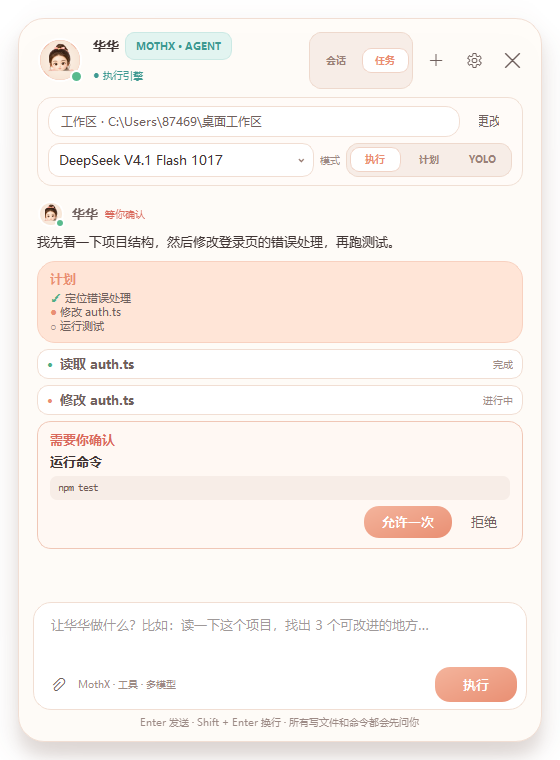
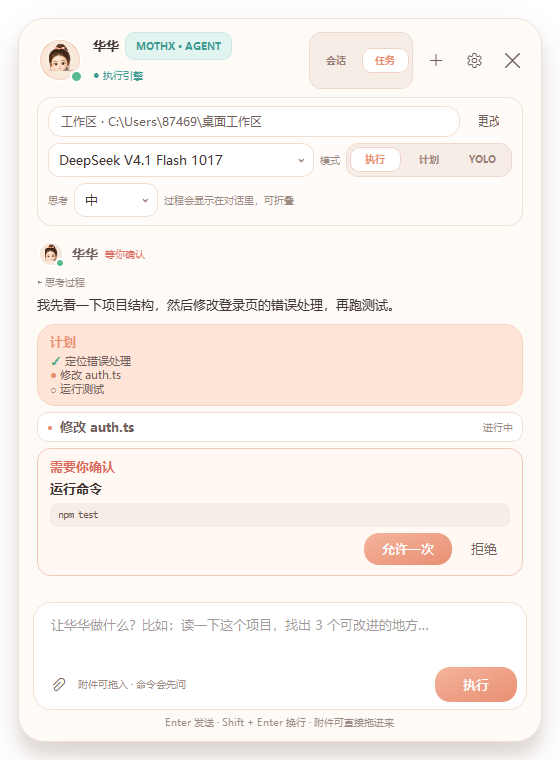
Show MothX reasoning and add thinking level control

diff --git a/huahua/agent_window.py b/huahua/agent_window.py
@@ -279,6 +279,8 @@ class AgentRunView(QFrame):
         super().__init__(parent)
         self.character = theme.character_key(character)
         self._raw = ""
+        self._thought_raw = ""
+        self._thought_open = False
         self._streaming = True
         self._tools: dict[str, ToolRow] = {}
         self._plan: PlanCard | None = None
@@ -301,6 +303,31 @@ class AgentRunView(QFrame):
         head.addWidget(self.status)
         head.addStretch(1)
         root.addLayout(head)
+
+        self.thought_btn = QPushButton("▸ 思考过程")
+        self.thought_btn.setObjectName("ThoughtToggle")
+        self.thought_btn.setCursor(Qt.CursorShape.PointingHandCursor)
+        self.thought_btn.clicked.connect(self.toggle_thought)
+        self.thought_btn.hide()
+        root.addWidget(self.thought_btn)
+        self.thoughtb = NoWheelTextBrowser()
+        self.thoughtb.setFrameShape(QFrame.Shape.NoFrame)
+        self.thoughtb.setVerticalScrollBarPolicy(Qt.ScrollBarPolicy.ScrollBarAsNeeded)
+        self.thoughtb.setHorizontalScrollBarPolicy(Qt.ScrollBarPolicy.ScrollBarAlwaysOff)
+        self.thoughtb.setStyleSheet(
+            "QTextBrowser{background:#FBF3ED;border:1px solid #F0DFD4;"
+            "border-radius:10px;padding:7px;color:#826C62;}"
+        )
+        self.thoughtb.setFixedWidth(466)
+        self.thoughtb.setFont(font(9))
+        self.thoughtb.document().setDocumentMargin(0)
+        self.thoughtb.setTextInteractionFlags(
+            Qt.TextInteractionFlag.TextSelectableByMouse
+            | Qt.TextInteractionFlag.LinksAccessibleByMouse
+        )
+        self.thoughtb.hide()
+        root.addWidget(self.thoughtb)
+
         self.textb = NoWheelTextBrowser()
         self.textb.setFrameShape(QFrame.Shape.NoFrame)
         self.textb.setVerticalScrollBarPolicy(Qt.ScrollBarPolicy.ScrollBarAlwaysOff)
@@ -327,6 +354,41 @@ class AgentRunView(QFrame):
         self.status.setText(text)
         self.status.setStyleSheet(f"color:{color};font-size:10px;")
 
+    def append_thought(self, text: str):
+        if not text:
+            return
+        self._thought_raw += text
+        # Open on the first reasoning delta so the process is visible by
+        # default; the user can collapse it with one click.
+        if not self._thought_open:
+            self._thought_open = True
+            self.thoughtb.show()
+        self.thought_btn.show()
+        self.thought_btn.setText("▾ 思考中…")
+        self._render_thought()
+        if self._streaming:
+            bar = self.thoughtb.verticalScrollBar()
+            QTimer.singleShot(0, lambda: bar.setValue(bar.maximum()))
+
+    def _render_thought(self):
+        safe = html.escape(self._thought_raw).replace("\n", "<br>")
+        self.thoughtb.setHtml(
+            f"<div style='color:#826C62;font-size:11px;line-height:1.55'>{safe}</div>"
+        )
+        doc = self.thoughtb.document()
+        doc.setTextWidth(450)
+        h = max(42, int(doc.size().height() + 16))
+        self.thoughtb.setFixedHeight(min(h, 260))
+
+    def toggle_thought(self):
+        self._thought_open = not self._thought_open
+        self.thoughtb.setVisible(self._thought_open)
+        if self._streaming:
+            self.thought_btn.setText("▾ 思考中…" if self._thought_open else "▸ 思考中…")
+        else:
+            self.thought_btn.setText("▾ 思考过程" if self._thought_open else "▸ 思考过程")
+        QTimer.singleShot(0, self._resize)
+
     def append_text(self, text: str):
         self._raw += text
         self.textb.show()
@@ -337,6 +399,8 @@ class AgentRunView(QFrame):
         self._streaming = False
         if text is not None:
             self._raw = text
+        if self._thought_raw:
+            self.thought_btn.setText("▾ 思考过程" if self._thought_open else "▸ 思考过程")
         if self._raw:
             self.textb.setHtml(md_to_html(self._raw))
             self._resize()
@@ -522,6 +586,25 @@ class AgentWindow(QWidget):
         self._last_mode = "agent"
         row.addWidget(self.mode_switch)
         cl.addLayout(row)
+        think_row = QHBoxLayout()
+        think_row.setSpacing(6)
+        think_label = QLabel("思考")
+        think_label.setObjectName("Tiny")
+        think_row.addWidget(think_label)
+        self.thinking_combo = QComboBox()
+        self.thinking_combo.addItem("关闭", "off")
+        self.thinking_combo.addItem("低", "low")
+        self.thinking_combo.addItem("中", "medium")
+        self.thinking_combo.addItem("高", "high")
+        self.thinking_combo.setFixedWidth(84)
+        self.thinking_combo.setToolTip("MothX 思考等级；中/高会显示推理过程，也会更慢")
+        self.thinking_combo.currentIndexChanged.connect(self._thinking_changed)
+        think_row.addWidget(self.thinking_combo)
+        think_hint = QLabel("过程会显示在对话里，可折叠")
+        think_hint.setObjectName("Tiny")
+        think_row.addWidget(think_hint)
+        think_row.addStretch(1)
+        cl.addLayout(think_row)
         ol.addWidget(self.ctx_card)
         root.addWidget(ctx_outer)
 
@@ -676,6 +759,11 @@ class AgentWindow(QWidget):
         mode = str(self.config.get("mothx.mode", "agent") or "agent")
         self.mode_switch.set_active(mode)
         self._last_mode = mode
+        thinking = str(self.config.get("mothx.thinking", "medium") or "medium")
+        self.thinking_combo.blockSignals(True)
+        idx = self.thinking_combo.findData(thinking)
+        self.thinking_combo.setCurrentIndex(max(0, idx))
+        self.thinking_combo.blockSignals(False)
         self._refresh_workspace()
 
     def _refresh_workspace(self):
@@ -713,6 +801,11 @@ class AgentWindow(QWidget):
         model = self.model_combo.currentData()
         if model:
             self.controller.set_model(str(model))
+
+    def _thinking_changed(self, _idx: int):
+        level = str(self.thinking_combo.currentData() or "medium")
+        self.controller.set_thinking(level)
+        self.show_toast(f"思考等级：{self.thinking_combo.currentText()}")
 
     def _mode_changed(self, mode: str):
         if mode == "yolo" and self._last_mode != "yolo":
@@ -960,9 +1053,12 @@ class AgentWindow(QWidget):
             self._run.append_text(text)
             self._scroll_bottom()
 
-    def _on_thought(self, _text: str):
+    def _on_thought(self, text: str):
         if self._run and not self._finalized:
+            self._run.append_thought(text)
             self._run.set_status("思考中…", MUTED)
+            self.pet_state.emit("thinking")
+            self._scroll_bottom()
 
     def _on_tool(self, info: dict[str, Any]):
         if self._run:

diff --git a/huahua/mothx/controller.py b/huahua/mothx/controller.py
@@ -53,6 +53,7 @@ class AgentController(QObject):
         self.config_options: list[dict[str, Any]] = []
         self.selected_model = str(config.get("mothx.model", "") or "")
         self.selected_mode = str(config.get("mothx.mode", "agent") or "agent")
+        self.selected_thinking = str(config.get("mothx.thinking", "medium") or "medium")
         self.running = False
         self._initializing = False
         self._init_waiters: list[Callable[[str], None]] = []
@@ -191,6 +192,8 @@ class AgentController(QObject):
             wanted.append(("mode", self.selected_mode))
         if self.selected_model:
             wanted.append(("model", self.selected_model))
+        if self.selected_thinking:
+            wanted.append(("thinking_level", self.selected_thinking))
         if not wanted:
             if callback:
                 callback("")
@@ -432,6 +435,17 @@ class AgentController(QObject):
             self.client.request(
                 "session/set_config_option",
                 {"sessionId": self.session_id, "configId": "mode", "value": mode},
+                lambda result, err: self._on_config_option(result, err),
+            )
+
+    def set_thinking(self, level: str) -> None:
+        self.selected_thinking = level
+        self.config.set("mothx.thinking", level)
+        self.config.save()
+        if self.client and self.session_id:
+            self.client.request(
+                "session/set_config_option",
+                {"sessionId": self.session_id, "configId": "thinking_level", "value": level},
                 lambda result, err: self._on_config_option(result, err),
             )
 

diff --git a/huahua/mothx/runtime.py b/huahua/mothx/runtime.py
@@ -28,7 +28,8 @@ MODEL_CHOICES: list[dict[str, Any]] = [
         "name": "DeepSeek V4.1 Flash 1017",
         "contextWindow": 1_000_000,
         "maxTokens": 384_000,
-        "reasoning": False,
+        "reasoning": True,
+        "compat": {"thinkingFormat": "deepseek-v4.1"},
         "input": ["text", "image"],
         "badges": ["工具", "视觉", "长上下文"],
     },
@@ -76,7 +77,7 @@ class MothXRuntime:
             "defaultProvider": "moark",
             "defaultModel": default_model or self.models[0]["id"],
             "defaultMode": "agent",
-            "defaultThinkingLevel": "off",
+            "defaultThinkingLevel": "medium",
             "providers": {
                 "moark": {
                     "baseUrl": (base_url or "https://api.moark.com/v1").rstrip("/"),

diff --git a/huahua/theme.py b/huahua/theme.py
@@ -326,6 +326,15 @@ def qss() -> str:
         color: {PEACH_DEEP};
     }}
     QPushButton#Segment:pressed {{ background: {PEACH_SOFT}; }}
+    QPushButton#ThoughtToggle {{
+        background: transparent;
+        border: none;
+        color: {MUTED};
+        padding: 2px 0;
+        font-size: 10px;
+        text-align: left;
+    }}
+    QPushButton#ThoughtToggle:hover {{ color: {PEACH_DEEP}; }}
     QPushButton#Chip {{
         background: white;
         color: {INK_SOFT};

diff --git a/huahua/config.py b/huahua/config.py
@@ -112,6 +112,7 @@ def default_config() -> dict[str, Any]:
             "workspace": "",
             "mode": "agent",
             "model": "",
+            "thinking": "medium",
         },
         "behavior": {
             "notify": True,

diff --git a/huahua/__init__.py b/huahua/__init__.py
@@ -1,5 +1,5 @@
 """华华和熙熙 · 桌面灵感搭子。"""
 
-__version__ = "1.2.2"
+__version__ = "1.2.3"
 APP_NAME = "华华"
 APP_TITLE = "华华和熙熙 · 桌面灵感搭子"

diff --git a/README.md b/README.md
@@ -47,6 +47,10 @@
 
 ![任务附件](docs/agent_attachments.png)
 
+任务过程会显示可折叠的「思考过程」。它来自 MothX 的 `agent_thought_chunk`；模型没返回推理时不会伪造：
+
+![思考过程](docs/agent_thinking_preview.png)
+
 执行中的工具卡片、计划进度和命令审批：
 
 ![执行中的工具与审批](docs/agent_run_preview.png)
@@ -56,6 +60,7 @@
 - 工具调用显示成可折叠的小卡片，写文件 / 运行命令会逐次弹出审批；
 - 支持切换模型、执行 / 只读计划 / YOLO 模式、工作区选择、停止任务；
 - 文件、图片可直接拖进任务窗口或输入框，作为本次任务附件；
+- 思考等级可选（关闭 / 低 / 中 / 高），推理过程会展开在回答上方，可一键折叠；
 - 右上角「会话」切回聊天；聊天右上角「任务」切回任务；
 - 切换华华 / 熙熙后，任务窗口里的标题、提示和桌宠气泡会一起换；
 - 完成 / 需要确认 / 失败都会回到桌宠气泡；

diff --git a/docs/MOTHX_AGENT_DESIGN.md b/docs/MOTHX_AGENT_DESIGN.md
@@ -60,6 +60,7 @@ Serve 仍然值得保留为第二形态：
 - 已接通 `runtime/mothx.exe`、ACP 初始化、`session/new`、流式文本、工具卡片、计划卡片、逐次审批、停止、模型选择、工作区、气泡通知；
 - 工作区统一为绝对路径：顶部显示的就是 `session/new` 的 cwd，文件工具和生成结果都落在这里；
 - 工作模式可选 `执行（逐次审批）/ 计划（只读）/ YOLO（完全放开）`，YOLO 会二次确认；
+- 思考等级可选 `关闭 / 低 / 中 / 高`，MothX 的 `agent_thought_chunk` 会展开成可折叠的「思考过程」；
 - 执行窗口右上角「会话」切回聊天，聊天右上角「任务」切回任务；
 - 华华 / 熙熙切换后，任务窗口标题、空状态、输入提示、完成气泡都会跟着换；
 - 媒体能力仍然走原来的 MoArk 直连，不受影响。
